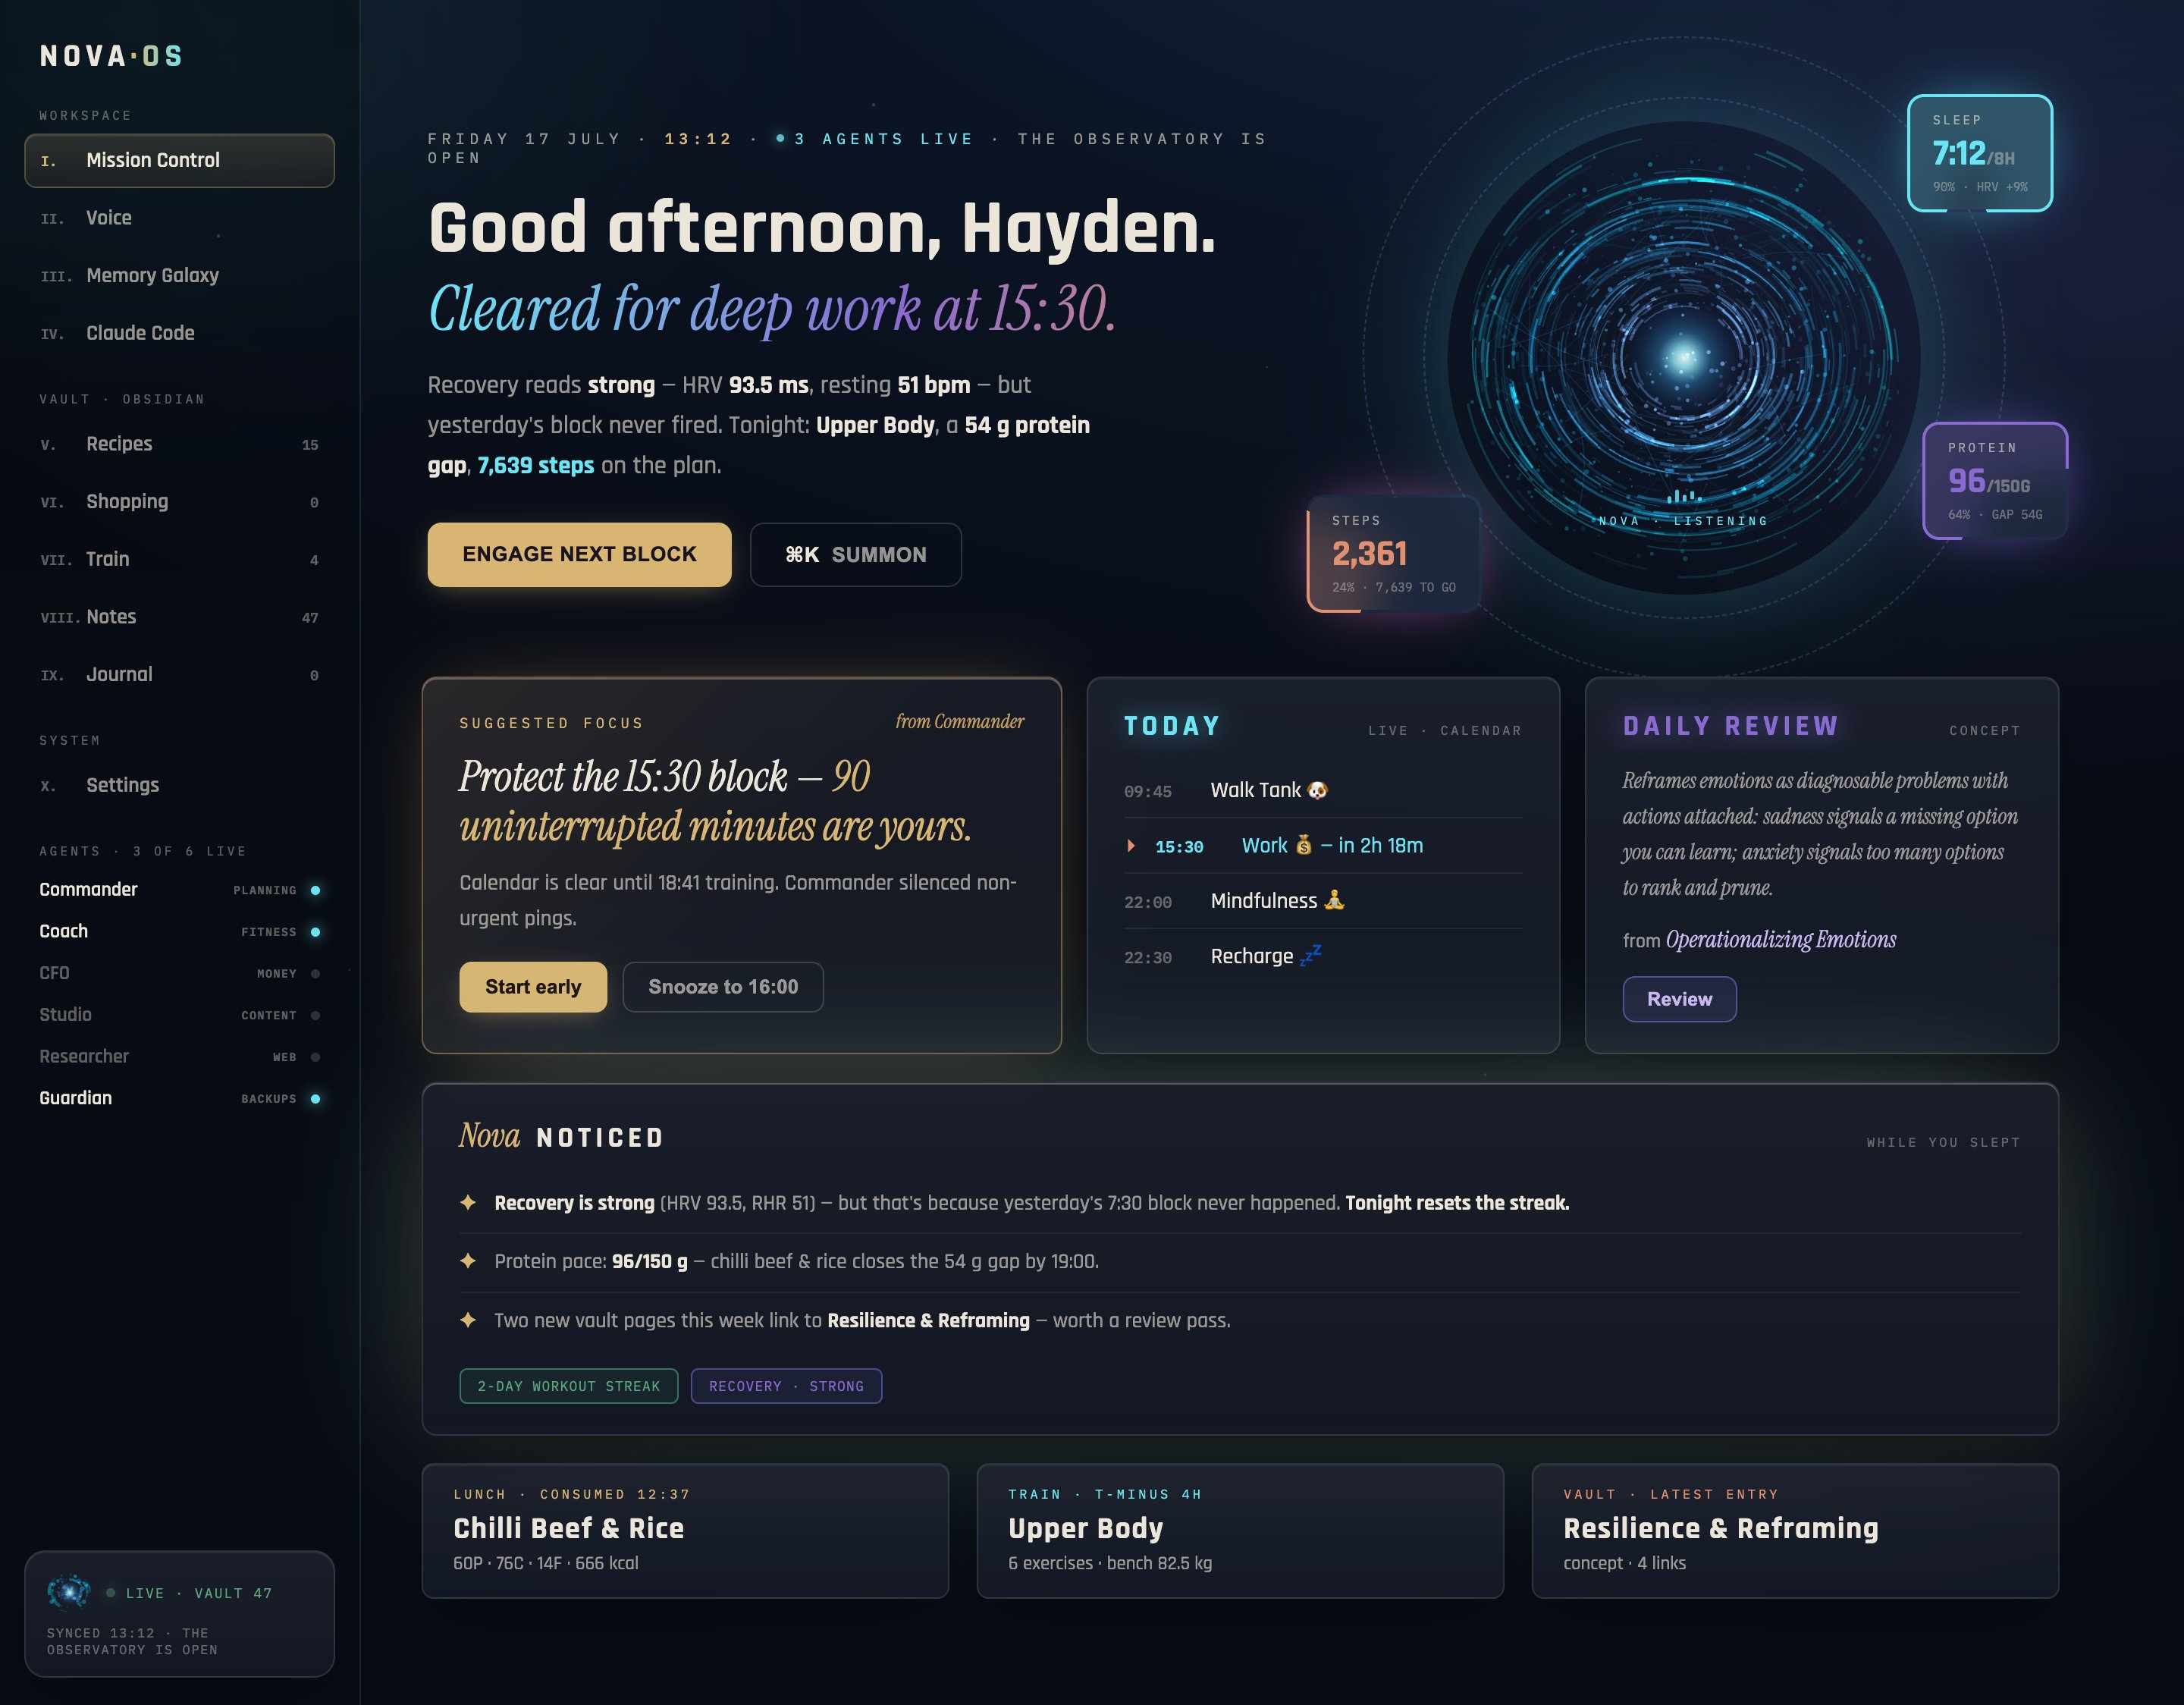
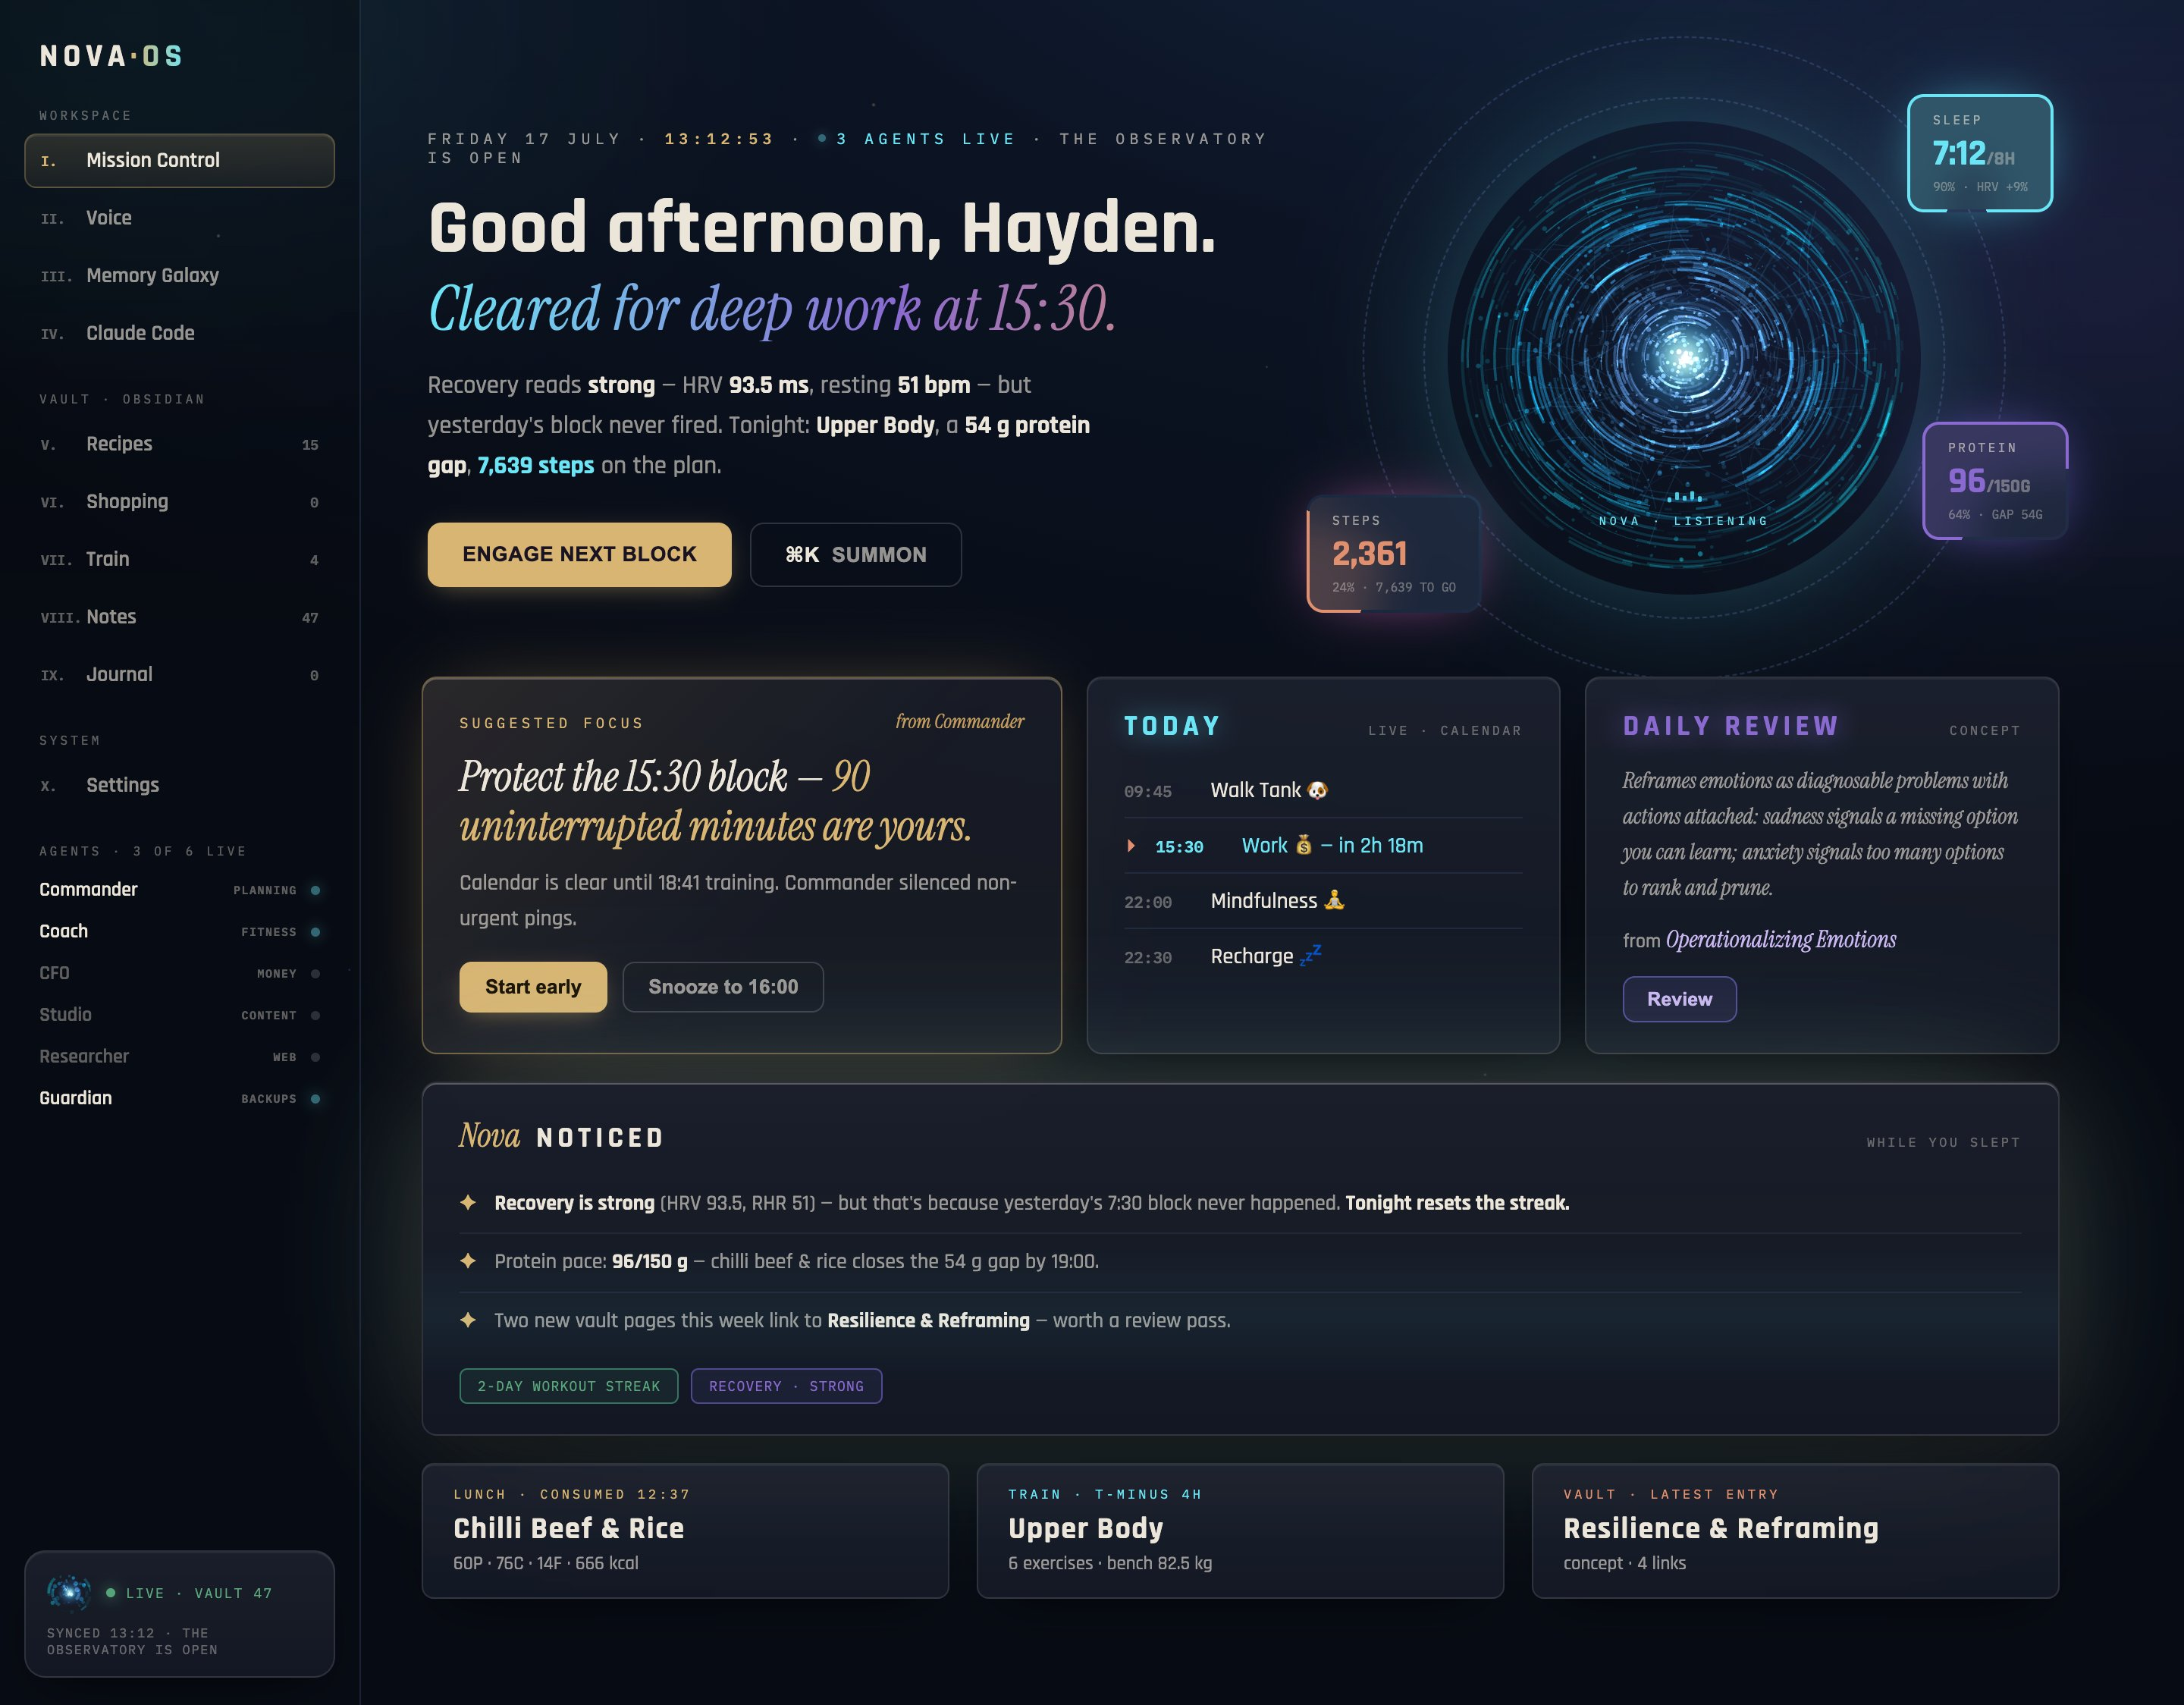
Design final polish: full-detail core middle + ticking seconds clock
The core's hollow centre is fixed — bands now reach to 0.10R with inner-arc
brightness boost, embers biased inward, filaments pulled through the heart,
and a wider heart glow bridging to the inner rings. The eyebrow clock ticks
live with seconds (starting from the scene time). Applied to both 45 and 46.

Claude-Session: https://claude.ai/code/session_01VUvFhaD1Pa9ejdWQ7SPgKU

Changed region(s): [[0.6562, 0.0934, 0.875, 0.3425]]

diff --git a/design/mockups/45-command-final.html b/design/mockups/45-command-final.html
@@ -232,7 +232,7 @@ h1 .tag{display:block;font-family:'Instrument Serif',serif;font-style:italic;fon
 <div class="wrap">
   <section class="hero">
     <div>
-      <div class="eyebrow">FRIDAY 17 JULY · <b>13:12</b> · <span class="agl"><i></i>3 AGENTS LIVE</span> · ALL SYSTEMS NOMINAL</div>
+      <div class="eyebrow">FRIDAY 17 JULY · <b id="clk">13:12:41</b> · <span class="agl"><i></i>3 AGENTS LIVE</span> · ALL SYSTEMS NOMINAL</div>
       <h1>Good afternoon, Hayden.<span class="tag">Cleared for deep work at 15:30.</span></h1>
       <p class="stand">Recovery reads <b>strong</b> — HRV <b>93.5 ms</b>, resting <b>51 bpm</b> — but yesterday's block never fired. Tonight: <b>Upper Body</b>, a <b>54 g protein gap</b>, <span class="cy">7,639 steps</span> on the plan.</p>
       <div class="ctas"><button class="gbtn">ENGAGE NEXT BLOCK</button><button class="gbtn ghost"><b>⌘K</b>&nbsp; SUMMON</button></div>
@@ -303,15 +303,15 @@ function buildCore(canvas,opts){
   const ctx=canvas.getContext('2d');ctx.scale(dpr,dpr);
   const cx=W/2,cy=H/2,R=W*0.46,r=rng(opts.seed||7);
   function col(f,a){const hue=224-f*36,sat=90-f*10,lit=38+(1-f)*44;return `hsla(${hue},${sat}%,${lit}%,${a})`}
-  const bands=[];for(let b=0;b<opts.bands;b++){const f=0.24+0.76*(b/(opts.bands-1));const segs=[];const n=Math.round(opts.segs*(0.5+r()));
-    for(let i=0;i<n;i++){segs.push({a0:r()*6.283,len:0.02+r()*r()*opts.arc,w:0.5+r()*1.6*opts.weight,jit:(r()-0.5)*R*0.05*opts.chaos,al:0.16+r()*0.5,fl:r()*6.28,fs:0.5+r()*2})}
+  const bands=[];for(let b=0;b<opts.bands;b++){const f=0.10+0.90*(b/(opts.bands-1));const segs=[];const n=Math.round(opts.segs*(0.5+r()));
+    for(let i=0;i<n;i++){segs.push({a0:r()*6.283,len:0.02+r()*r()*opts.arc,w:0.5+r()*1.6*opts.weight,jit:(r()-0.5)*R*0.05*opts.chaos,al:(0.16+r()*0.5)*(1.35-0.55*f),fl:r()*6.28,fs:0.5+r()*2})}
     bands.push({f,segs,vel:(r()-0.5)*opts.speed,squash:1-r()*0.14*opts.chaos,tilt:(r()-0.5)*0.5*opts.chaos})}
-  const embers=[];for(let i=0;i<opts.embers;i++){embers.push({f:Math.pow(r(),0.6),ang:r()*6.283,sz:0.35+r()*1.3,al:0.15+r()*0.55,tw:r()*6.28,ts:0.6+r()*2.4})}
+  const embers=[];for(let i=0;i<opts.embers;i++){embers.push({f:Math.pow(r(),1.25),ang:r()*6.283,sz:0.35+r()*1.3,al:0.15+r()*0.55,tw:r()*6.28,ts:0.6+r()*2.4})}
   const wisps=[];for(let i=0;i<opts.wisps;i++){const a=r()*6.283;wisps.push({a,b:a+(r()-0.5)*2.4,f1:0.25+r()*0.7,f2:0.25+r()*0.7,bulge:(r()-0.5)*1.6,al:0.05+r()*0.12})}
   function draw(t){ctx.clearRect(0,0,W,H);ctx.globalCompositeOperation='lighter';
     for(const w of wisps){const rot=t*0.03;const x1=cx+Math.cos(w.a+rot)*R*w.f1,y1=cy+Math.sin(w.a+rot)*R*w.f1*0.94;
       const x2=cx+Math.cos(w.b+rot)*R*w.f2,y2=cy+Math.sin(w.b+rot)*R*w.f2*0.94;
-      const mx=(x1+x2)/2+(y2-y1)*w.bulge*0.3,my=(y1+y2)/2-(x2-x1)*w.bulge*0.3;
+      let mx=(x1+x2)/2+(y2-y1)*w.bulge*0.3,my=(y1+y2)/2-(x2-x1)*w.bulge*0.3;mx=mx*0.62+cx*0.38;my=my*0.62+cy*0.38;
       ctx.strokeStyle=col(0.5,w.al);ctx.lineWidth=0.7;ctx.beginPath();ctx.moveTo(x1,y1);ctx.quadraticCurveTo(mx,my,x2,y2);ctx.stroke()}
     for(const b of bands){const rad=R*b.f;ctx.save();ctx.translate(cx,cy);ctx.rotate(b.tilt);ctx.scale(1,b.squash);const rot=t*b.vel;
       for(const s of b.segs){const fl=0.55+0.45*Math.sin(t*s.fs+s.fl);ctx.strokeStyle=col(b.f,s.al*fl);ctx.lineWidth=s.w;
@@ -320,14 +320,19 @@ function buildCore(canvas,opts){
       const x=cx+Math.cos(e.ang+t*0.05)*R*e.f,y=cy+Math.sin(e.ang+t*0.05)*R*e.f*0.94;
       ctx.fillStyle=col(e.f,e.al*tw);ctx.beginPath();ctx.arc(x,y,e.sz,0,6.29);ctx.fill()}
     const pulse=1+0.07*Math.sin(t*1.8),hr=R*opts.heart*pulse;
-    const g=ctx.createRadialGradient(cx,cy,0,cx,cy,hr*2.6);
+    const g=ctx.createRadialGradient(cx,cy,0,cx,cy,hr*3.2);
     g.addColorStop(0,'rgba(240,252,255,.95)');g.addColorStop(0.18,'rgba(158,240,255,.8)');
     g.addColorStop(0.45,'rgba(64,170,238,.35)');g.addColorStop(1,'rgba(20,60,140,0)');
-    ctx.fillStyle=g;ctx.beginPath();ctx.arc(cx,cy,hr*2.6,0,6.29);ctx.fill();
+    ctx.fillStyle=g;ctx.beginPath();ctx.arc(cx,cy,hr*3.2,0,6.29);ctx.fill();
     ctx.globalCompositeOperation='source-over'}
   if(reduced){draw(1.7);return}
   (function loop(){draw(performance.now()/1000);requestAnimationFrame(loop)})()}
-buildCore(document.getElementById('core'),{seed:7,bands:26,segs:34,arc:1.1,weight:1,chaos:1,speed:.16,embers:420,wisps:60,heart:.10});
+buildCore(document.getElementById('core'),{seed:7,bands:32,segs:36,arc:1.15,weight:1,chaos:1,speed:.16,embers:540,wisps:84,heart:.12});
 buildCore(document.getElementById('coreMini'),{seed:7,bands:6,segs:10,arc:1.2,weight:1.2,chaos:.8,speed:.12,embers:30,wisps:0,heart:.22});
+</script>
+<script>
+let cs=13*3600+12*60+41;
+setInterval(()=>{cs=(cs+1)%86400;const p=n=>String(n).padStart(2,'0');
+document.getElementById('clk').textContent=p(Math.floor(cs/3600))+':'+p(Math.floor(cs%3600/60))+':'+p(cs%60)},1000);
 </script>
 </body></html>

diff --git a/design/mockups/46-observatory-final.html b/design/mockups/46-observatory-final.html
@@ -235,7 +235,7 @@ h1 .tag{display:block;font-family:'Instrument Serif',serif;font-style:italic;fon
 <div class="wrap">
   <section class="hero">
     <div>
-      <div class="eyebrow">FRIDAY 17 JULY · <b>13:12</b> · <span class="agl"><i></i>3 AGENTS LIVE</span> · THE OBSERVATORY IS OPEN</div>
+      <div class="eyebrow">FRIDAY 17 JULY · <b id="clk">13:12:41</b> · <span class="agl"><i></i>3 AGENTS LIVE</span> · THE OBSERVATORY IS OPEN</div>
       <h1>Good afternoon, Hayden.<span class="tag">Cleared for deep work at 15:30.</span></h1>
       <p class="stand">Recovery reads <b>strong</b> — HRV <b>93.5 ms</b>, resting <b>51 bpm</b> — but yesterday's block never fired. Tonight: <b>Upper Body</b>, a <b>54 g protein gap</b>, <span class="cy">7,639 steps</span> on the plan.</p>
       <div class="ctas"><button class="gbtn">ENGAGE NEXT BLOCK</button><button class="gbtn ghost"><b>⌘K</b>&nbsp; SUMMON</button></div>
@@ -306,15 +306,15 @@ function buildCore(canvas,opts){
   const ctx=canvas.getContext('2d');ctx.scale(dpr,dpr);
   const cx=W/2,cy=H/2,R=W*0.46,r=rng(opts.seed||7);
   function col(f,a){const hue=224-f*36,sat=90-f*10,lit=38+(1-f)*44;return `hsla(${hue},${sat}%,${lit}%,${a})`}
-  const bands=[];for(let b=0;b<opts.bands;b++){const f=0.24+0.76*(b/(opts.bands-1));const segs=[];const n=Math.round(opts.segs*(0.5+r()));
-    for(let i=0;i<n;i++){segs.push({a0:r()*6.283,len:0.02+r()*r()*opts.arc,w:0.5+r()*1.6*opts.weight,jit:(r()-0.5)*R*0.05*opts.chaos,al:0.16+r()*0.5,fl:r()*6.28,fs:0.5+r()*2})}
+  const bands=[];for(let b=0;b<opts.bands;b++){const f=0.10+0.90*(b/(opts.bands-1));const segs=[];const n=Math.round(opts.segs*(0.5+r()));
+    for(let i=0;i<n;i++){segs.push({a0:r()*6.283,len:0.02+r()*r()*opts.arc,w:0.5+r()*1.6*opts.weight,jit:(r()-0.5)*R*0.05*opts.chaos,al:(0.16+r()*0.5)*(1.35-0.55*f),fl:r()*6.28,fs:0.5+r()*2})}
     bands.push({f,segs,vel:(r()-0.5)*opts.speed,squash:1-r()*0.14*opts.chaos,tilt:(r()-0.5)*0.5*opts.chaos})}
-  const embers=[];for(let i=0;i<opts.embers;i++){embers.push({f:Math.pow(r(),0.6),ang:r()*6.283,sz:0.35+r()*1.3,al:0.15+r()*0.55,tw:r()*6.28,ts:0.6+r()*2.4})}
+  const embers=[];for(let i=0;i<opts.embers;i++){embers.push({f:Math.pow(r(),1.25),ang:r()*6.283,sz:0.35+r()*1.3,al:0.15+r()*0.55,tw:r()*6.28,ts:0.6+r()*2.4})}
   const wisps=[];for(let i=0;i<opts.wisps;i++){const a=r()*6.283;wisps.push({a,b:a+(r()-0.5)*2.4,f1:0.25+r()*0.7,f2:0.25+r()*0.7,bulge:(r()-0.5)*1.6,al:0.05+r()*0.12})}
   function draw(t){ctx.clearRect(0,0,W,H);ctx.globalCompositeOperation='lighter';
     for(const w of wisps){const rot=t*0.03;const x1=cx+Math.cos(w.a+rot)*R*w.f1,y1=cy+Math.sin(w.a+rot)*R*w.f1*0.94;
       const x2=cx+Math.cos(w.b+rot)*R*w.f2,y2=cy+Math.sin(w.b+rot)*R*w.f2*0.94;
-      const mx=(x1+x2)/2+(y2-y1)*w.bulge*0.3,my=(y1+y2)/2-(x2-x1)*w.bulge*0.3;
+      let mx=(x1+x2)/2+(y2-y1)*w.bulge*0.3,my=(y1+y2)/2-(x2-x1)*w.bulge*0.3;mx=mx*0.62+cx*0.38;my=my*0.62+cy*0.38;
       ctx.strokeStyle=col(0.5,w.al);ctx.lineWidth=0.7;ctx.beginPath();ctx.moveTo(x1,y1);ctx.quadraticCurveTo(mx,my,x2,y2);ctx.stroke()}
     for(const b of bands){const rad=R*b.f;ctx.save();ctx.translate(cx,cy);ctx.rotate(b.tilt);ctx.scale(1,b.squash);const rot=t*b.vel;
       for(const s of b.segs){const fl=0.55+0.45*Math.sin(t*s.fs+s.fl);ctx.strokeStyle=col(b.f,s.al*fl);ctx.lineWidth=s.w;
@@ -323,14 +323,19 @@ function buildCore(canvas,opts){
       const x=cx+Math.cos(e.ang+t*0.05)*R*e.f,y=cy+Math.sin(e.ang+t*0.05)*R*e.f*0.94;
       ctx.fillStyle=col(e.f,e.al*tw);ctx.beginPath();ctx.arc(x,y,e.sz,0,6.29);ctx.fill()}
     const pulse=1+0.07*Math.sin(t*1.8),hr=R*opts.heart*pulse;
-    const g=ctx.createRadialGradient(cx,cy,0,cx,cy,hr*2.6);
+    const g=ctx.createRadialGradient(cx,cy,0,cx,cy,hr*3.2);
     g.addColorStop(0,'rgba(240,252,255,.95)');g.addColorStop(0.18,'rgba(158,240,255,.8)');
     g.addColorStop(0.45,'rgba(64,170,238,.35)');g.addColorStop(1,'rgba(20,60,140,0)');
-    ctx.fillStyle=g;ctx.beginPath();ctx.arc(cx,cy,hr*2.6,0,6.29);ctx.fill();
+    ctx.fillStyle=g;ctx.beginPath();ctx.arc(cx,cy,hr*3.2,0,6.29);ctx.fill();
     ctx.globalCompositeOperation='source-over'}
   if(reduced){draw(1.7);return}
   (function loop(){draw(performance.now()/1000);requestAnimationFrame(loop)})()}
-buildCore(document.getElementById('core'),{seed:7,bands:26,segs:34,arc:1.1,weight:1,chaos:1,speed:.16,embers:420,wisps:60,heart:.10});
+buildCore(document.getElementById('core'),{seed:7,bands:32,segs:36,arc:1.15,weight:1,chaos:1,speed:.16,embers:540,wisps:84,heart:.12});
 buildCore(document.getElementById('coreMini'),{seed:7,bands:6,segs:10,arc:1.2,weight:1.2,chaos:.8,speed:.12,embers:30,wisps:0,heart:.22});
+</script>
+<script>
+let cs=13*3600+12*60+41;
+setInterval(()=>{cs=(cs+1)%86400;const p=n=>String(n).padStart(2,'0');
+document.getElementById('clk').textContent=p(Math.floor(cs/3600))+':'+p(Math.floor(cs%3600/60))+':'+p(cs%60)},1000);
 </script>
 </body></html>